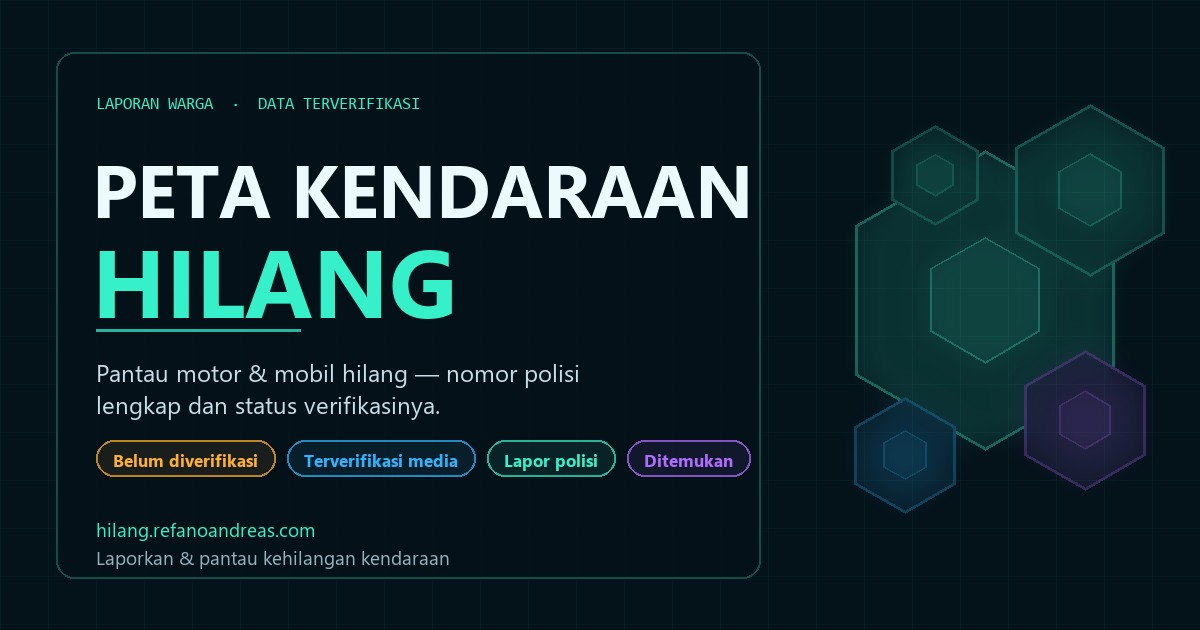
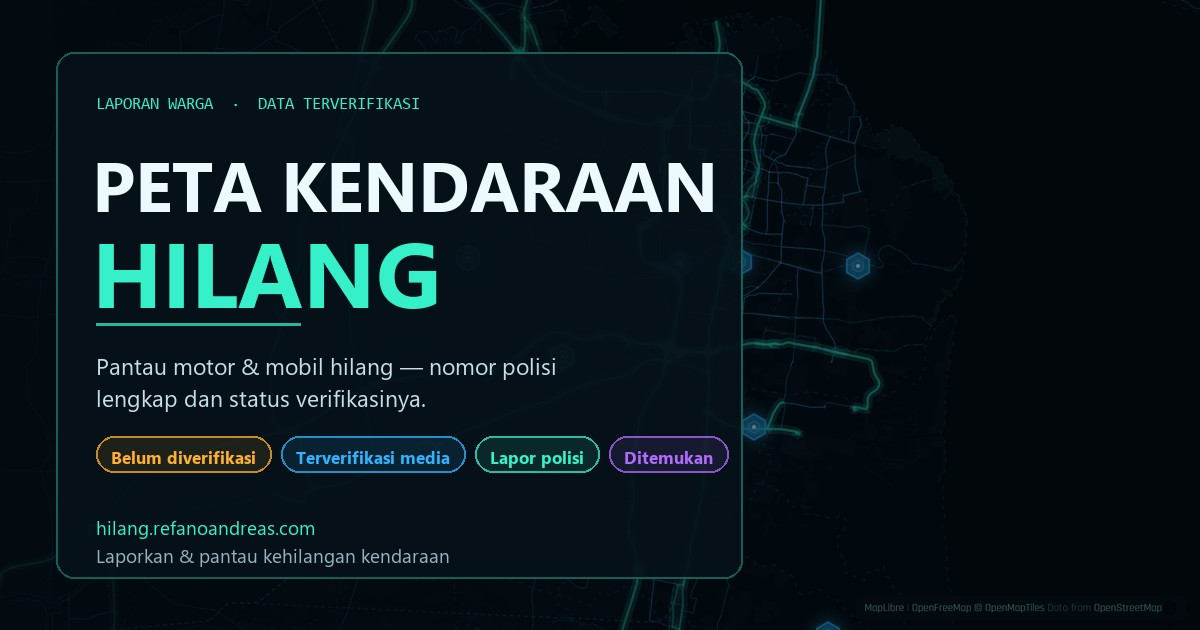
og: kembalikan nama daerah di title/description, OG image pakai latar peta asli (label peta disembunyikan)

diff --git a/kendaraan-hilang-core/inc/seo.php b/kendaraan-hilang-core/inc/seo.php
@@ -21,48 +21,12 @@ function kh_og_image_default() {
 }
 
 /**
- * Daftar nama daerah yang tidak ditampilkan di judul/deskripsi berbagi.
- */
-function kh_daftar_daerah() {
-	return array(
-		'Jawa Timur', 'Jatim',
-		'Surabaya', 'Sidoarjo', 'Gresik', 'Bangkalan', 'Mojokerto', 'Jombang',
-		'Pasuruan', 'Probolinggo', 'Malang', 'Lamongan', 'Tuban', 'Bojonegoro',
-		'Kediri', 'Madiun', 'Banyuwangi', 'Jember', 'Situbondo', 'Bondowoso',
-		'Lumajang', 'Blitar', 'Trenggalek', 'Tulungagung', 'Nganjuk', 'Ngawi',
-		'Magetan', 'Ponorogo', 'Pacitan', 'Sumenep', 'Pamekasan', 'Sampang',
-	);
-}
-
-/**
- * Bersihkan nama daerah dari teks (judul/deskripsi OG).
- */
-function kh_strip_daerah( $text ) {
-	$t = (string) $text;
-
-	foreach ( kh_daftar_daerah() as $d ) {
-		$q = preg_quote( $d, '/' );
-		$t = preg_replace( '/\s*[—–-]\s*' . $q . '\b/iu', '', $t );   // "— Jawa Timur"
-		$t = preg_replace( '/\s+di\s+' . $q . '\b/iu', '', $t );       // " di Surabaya"
-		$t = preg_replace( '/\s*,\s*' . $q . '\b/iu', '', $t );         // ", Surabaya"
-		$t = preg_replace( '/\b' . $q . '\b/iu', '', $t );              // sisa
-	}
-
-	$t = preg_replace( '/\s*,\s*(?=,|\.|$)/', '', $t );
-	$t = preg_replace( '/\s+([,.;])/u', '$1', $t );
-	$t = preg_replace( '/,\s*\./u', '.', $t );
-	$t = preg_replace( '/\s{2,}/', ' ', $t );
-
-	return trim( $t );
-}
-
-/**
  * Susun judul + deskripsi sesuai konteks halaman.
  */
 function kh_seo_context() {
 	$out = array(
-		'title' => 'Peta Kendaraan Hilang',
-		'desc'  => 'Peta laporan kehilangan motor dan mobil, dikutip dari pemberitaan dan laporan warga.',
+		'title' => 'Peta Kendaraan Hilang — Jawa Timur',
+		'desc'  => 'Peta laporan kehilangan motor dan mobil di Jawa Timur, dikutip dari pemberitaan dan laporan warga.',
 		'type'  => 'website',
 		'img'   => kh_og_image_default(),
 	);
@@ -70,9 +34,9 @@ function kh_seo_context() {
 	if ( is_front_page() ) {
 		$count = wp_count_posts( 'kendaraan' );
 		$n     = isset( $count->publish ) ? (int) $count->publish : 0;
-		$out['title'] = 'Peta Kendaraan Hilang';
+		$out['title'] = 'Peta Kendaraan Hilang — Jawa Timur';
 		$out['desc']  = sprintf(
-			'%d laporan kehilangan motor dan mobil. Lihat lokasi, nomor polisi, dan status verifikasinya di peta.',
+			'%d laporan kehilangan motor dan mobil di Surabaya, Sidoarjo, dan sekitarnya. Lihat lokasi, nomor polisi, dan status verifikasinya di peta.',
 			$n
 		);
 		return $out;
@@ -94,14 +58,12 @@ function kh_seo_context() {
 
 		$nama = trim( ( $kendaraan ? $kendaraan : 'Kendaraan' ) . ( $plat ? ' (' . $plat . ')' : '' ) );
 
-		$lokasi_bersih = kh_strip_daerah( $lokasi );
-
-		$desc = $nama . ( $lokasi_bersih ? ' hilang di ' . $lokasi_bersih : ' dilaporkan hilang' )
+		$desc = $nama . ' hilang' . ( $lokasi ? ' di ' . $lokasi : '' )
 			. ( $tgl_txt ? ', ' . $tgl_txt : '' ) . '.'
 			. ( $warna ? ' Warna ' . strtolower( $warna ) . '.' : '' )
 			. ' Bantu pantau dan laporkan kalau melihatnya.';
 
-		$out['title'] = kh_strip_daerah( get_the_title( $id ) );
+		$out['title'] = get_the_title( $id );
 		$out['desc']  = $desc;
 		$out['type']  = 'article';
 		$out['verif'] = $verif;
@@ -115,8 +77,8 @@ function kh_seo_context() {
 	}
 
 	if ( is_page( 'lapor' ) ) {
-		$out['title'] = 'Laporkan Kendaraan Hilang';
-		$out['desc']  = 'Laporkan motor atau mobil yang hilang. Cukup masuk dengan akun Google, tandai lokasi di peta, lalu kirim.';
+		$out['title'] = 'Laporkan Kendaraan Hilang — Jawa Timur';
+		$out['desc']  = 'Laporkan motor atau mobil yang hilang di Jawa Timur. Cukup masuk dengan akun Google, tandai lokasi di peta, lalu kirim.';
 		return $out;
 	}
 
@@ -146,8 +108,8 @@ function kh_seo_context() {
 
 	if ( is_post_type_archive( 'kendaraan' ) ) {
 		$out['url']   = get_post_type_archive_link( 'kendaraan' );
-		$out['title'] = 'Arsip Laporan Kendaraan Hilang';
-		$out['desc']  = 'Seluruh laporan kehilangan kendaraan, lengkap dengan nomor polisi, lokasi, dan status verifikasi.';
+		$out['title'] = 'Arsip Laporan Kendaraan Hilang — Jawa Timur';
+		$out['desc']  = 'Seluruh laporan kehilangan kendaraan di Jawa Timur, lengkap dengan nomor polisi, lokasi, dan status verifikasi.';
 		return $out;
 	}
 

diff --git a/kendaraan-hilang-core/kendaraan-hilang-core.php b/kendaraan-hilang-core/kendaraan-hilang-core.php
@@ -2,7 +2,7 @@
 /**
  * Plugin Name: Kendaraan Hilang Core
  * Description: Data model (CPT + ACF fields), REST API, peta vektor, timeline, dan importer untuk situs laporan kendaraan hilang.
- * Version: 0.20.0
+ * Version: 0.20.2
  * Author: Refano Andreas
  * Requires at least: 6.4
  * Requires PHP: 7.4
@@ -13,7 +13,7 @@ if ( ! defined( 'ABSPATH' ) ) {
 	exit;
 }
 
-define( 'KH_CORE_VERSION', '0.20.0' );
+define( 'KH_CORE_VERSION', '0.20.2' );
 define( 'KH_CORE_DIR', plugin_dir_path( __FILE__ ) );
 define( 'KH_CORE_URL', plugin_dir_url( __FILE__ ) );
 
